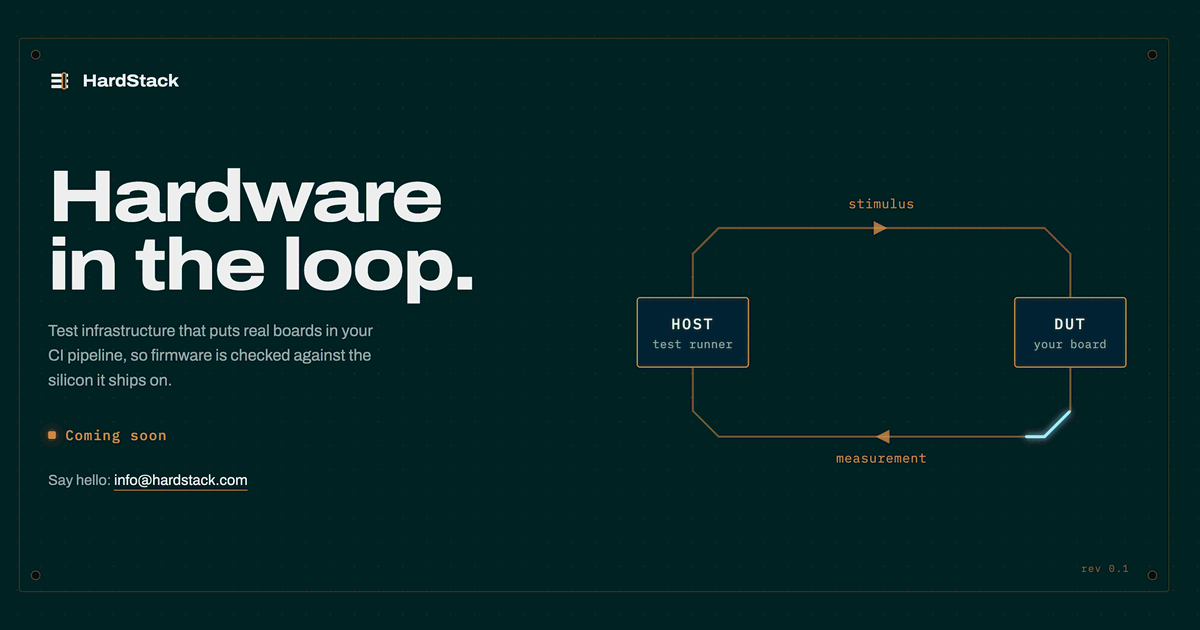
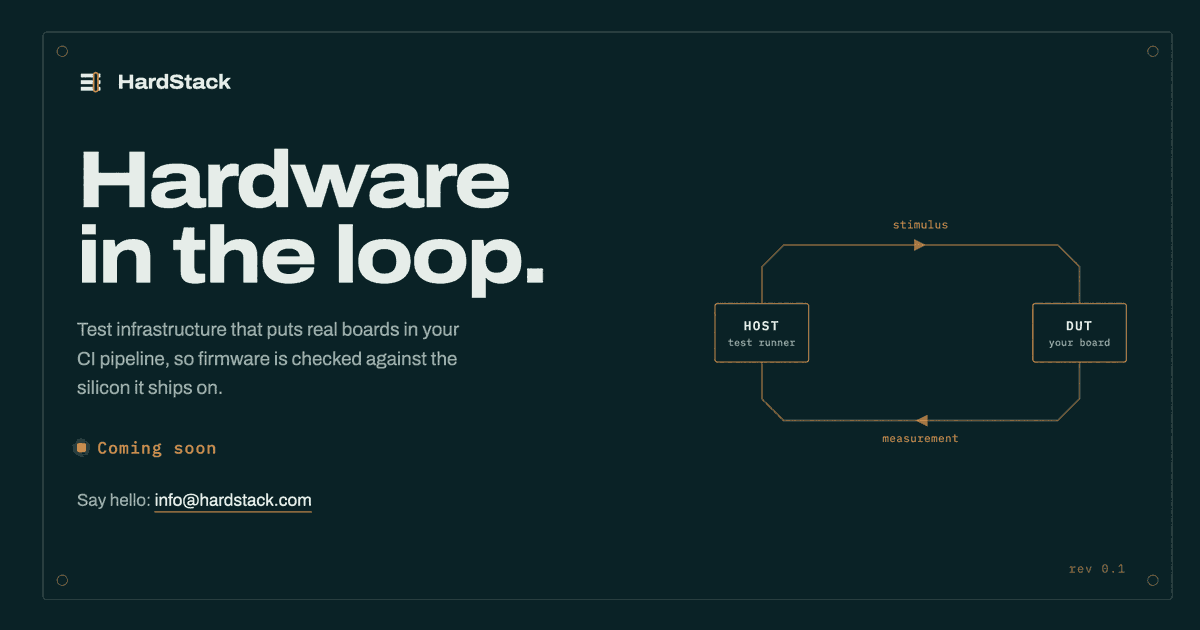
Fix board framing and headline wrapping, shrink og.png
- .board is absolute, not fixed, so the substrate grows with the document
  instead of letting content spill past it on short viewports.
- Widen the copy column and lower the headline clamp so "in the loop." stays
  on one line from 320px to 1680px.
- Render og.png without the dot grid or the pulse and quantise to 12 colours:
  27KB -> 15KB with no visible loss at card size.

diff --git a/public/index.html b/public/index.html
@@ -44,6 +44,7 @@
 
   body {
     margin: 0;
+    position: relative;
     min-height: 100svh;
     background-color: var(--substrate);
     /* fab grid: via drill marks on the substrate */
@@ -59,7 +60,7 @@
 
   /* --- board outline + mounting holes ------------------------------------ */
   .board {
-    position: fixed;
+    position: absolute;
     inset: var(--edge);
     border: 1px solid rgba(201, 139, 75, 0.28);
     border-radius: 4px;
@@ -107,7 +108,7 @@
   main {
     flex: 1;
     display: grid;
-    grid-template-columns: minmax(0, 1fr) minmax(0, 1.02fr);
+    grid-template-columns: minmax(0, 1.12fr) minmax(0, 0.88fr);
     align-items: center;
     gap: clamp(36px, 6vw, 80px);
   }
@@ -116,7 +117,7 @@
 
   h1 {
     margin: 0;
-    font-size: clamp(2.9rem, 8.2vw, 5.3rem);
+    font-size: clamp(2.9rem, 6.6vw, 5rem);
     font-variation-settings: "wdth" 118, "wght" 760;
     line-height: 0.94;
     letter-spacing: -0.035em;

diff --git a/README.md b/README.md
@@ -45,18 +45,23 @@ edit permission).
 
 ## Regenerating og.png
 
-`og.png` is a screenshot of the page itself at 1200x630, palette-reduced to
-keep it under 30 KB:
+`og.png` is a screenshot of the page itself at 1200x630, with the dot grid and
+the travelling pulse hidden (both only add noise at card size and cost a lot of
+bytes), then palette-reduced to 12 colours to stay around 15 KB:
+
+```js
+// in DevTools, with the page open at 1200x630
+document.head.insertAdjacentHTML("beforeend",
+  "<style>body{background-image:none!important}.loop .pulse{display:none!important}</style>");
+```
 
 ```sh
-cd public && python3 -m http.server 8787 &
-"/Applications/Google Chrome.app/Contents/MacOS/Google Chrome" \
-  --headless --disable-gpu --hide-scrollbars \
-  --window-size=1200,630 --virtual-time-budget=8000 \
-  --screenshot=/tmp/og-raw.png http://localhost:8787/
-magick /tmp/og-raw.png -resize 1200x630^ -gravity center -extent 1200x630 \
-  -colors 128 -dither FloydSteinberg -strip PNG8:public/og.png
+magick og-raw.png -resize 1200x630^ -gravity center -extent 1200x630 \
+  -colors 12 -strip PNG8:public/og.png
 ```
+
+Keep it at 12 colours or above — below that, quantisation breaks the 1px board
+outline and trace into dashes.
 
 ## Design notes
 
